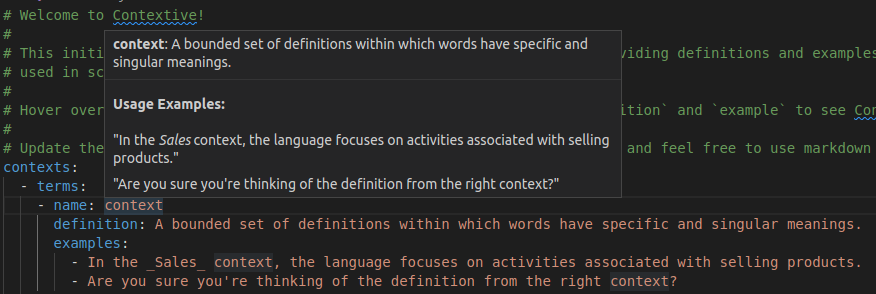
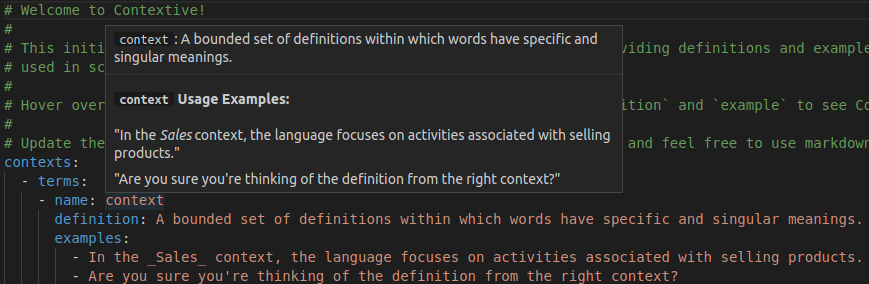
feat(language-server): hover now supports camelCase, PascalCase or snake_case words where defined terms are combined with other defined terms, or undefined terms (#27)
* refactor(languageserver): prepare for getWords to return multiple words found at a location in a document

* feat(language-server): can now hover over identified terms even when they are combined in camel, pascal or snake case with other words

* feat(language-server): the hover display now includes all possible terms found in the current ccombined word

* docs(vscode): update readme to reflect changes to terms matching to suit combined words

* test(language-server): Add scenario tests for word splitting for PascalCase and snake_case

diff --git a/src/vscode/contextive/README.md b/src/vscode/contextive/README.md
@@ -26,6 +26,43 @@ Even if you're not using Domain Driven Design, Contextive should still be very h
 * Auto-complete from your Contextive Definitions
 * Hover to show definitions from your Contextive Definitions
 * Currently configured to work in files of type: c, cpp, csharp, fsharp, go, groovy, html, java, javascript, javascriptreact, json, jsonc, markdown, perl, php, plaintext, powershell, python, ruby, rust, sql, typescript, typescriptreact, vb, xml, yaml
+* Support for word identification in combined usage such as camelCase, PascalCase and snake_case
+* Support for documenting combined words (e.g. verbNoun or noun_verbed)
+
+### Combined Words
+
+For the hover display, Contextive is able to identify the use of defined terms in combined words - where terms are combined using `camelCase`, `PascalCase` or `snake_case`.
+
+After identifying the combined word, it is split into the individual words and any words that are defined in the `definitions.yml` file are included in the hover display.
+
+The exception to this is if there is a defined term that matches the whole combined word - in this case, only the combined word's definition is included in the hover.
+
+#### Examples
+
+##### EntityId
+
+Consider a definitions list including the term `entity`.  If your code includes `entityId`, `EntityId` or `entity_id`, Contextive will identify the word `entity` and display the defined definition and usage examples:
+
+![Example of hovering over a combined word containing a match.](images/entity_id_example.png)
+
+##### ParentChild as a combined term
+
+Consider a definitions list including the terms `parent` and `child`.  If your code includes `parentChild`, `ParentChild` or `parent_child` (or the reverse), Contextive will identify the words `parent` and `child` and display the defined definitions and usage examples for both words:
+
+![Example of hovering over a combined word with multiple matches.](images/parent_child_example.png)
+
+##### ParentChild as a single term
+
+Consider a definitions list including the terms `parent` and `child` and `parentChild`.  If your code includes `parentChild`, or `ParentChild` Contextive will identify that the token `parentChild` is an exact match for a defined term, and display ONLY the definitions and usage examples for `parentChild`.  It's assumed that the supplied definition will be more precise and accurate for this usage of the combined word.
+
+![Example of hovering over an exactly matching combined word.](images/parent_child_exact_example.png)
+
+#### Limitations
+
+Both of these limitations will be handled in a future update:
+
+1. If you have a defined term `entityChild` but your code includes `entity_child`, Contextive does not yet recognise this is a match.
+1. If you have a defined term `entityChild`, and your code includes `entityChildId`, Contextive will not recognise the match as it splits `entityChildId` into `entity`, `Child` and `Id` and none of them match the defined term `entityChild`, and `entityChildId` is not an exact match for the defined term. 
 
 #### Coming Soon
 
@@ -35,9 +72,8 @@ Even if you're not using Domain Driven Design, Contextive should still be very h
 * Support for multiple contexts in the same or separate repos
 * Configurable list of language identifiers. The list is currently hard coded as above.
 * Better support for key word identification in different languages (e.g. different syntax delimiters)
-* Support for word identification in combined usage such as camelCase, PascalCase and snake_case
 * Support for detecting plural or singular versions of terms
-* Support for documenting combined words (e.g. verbNoun or noun_verbed)
+* Enhanced support for combined words, as noted above.
 
 ## Extension Settings
 
